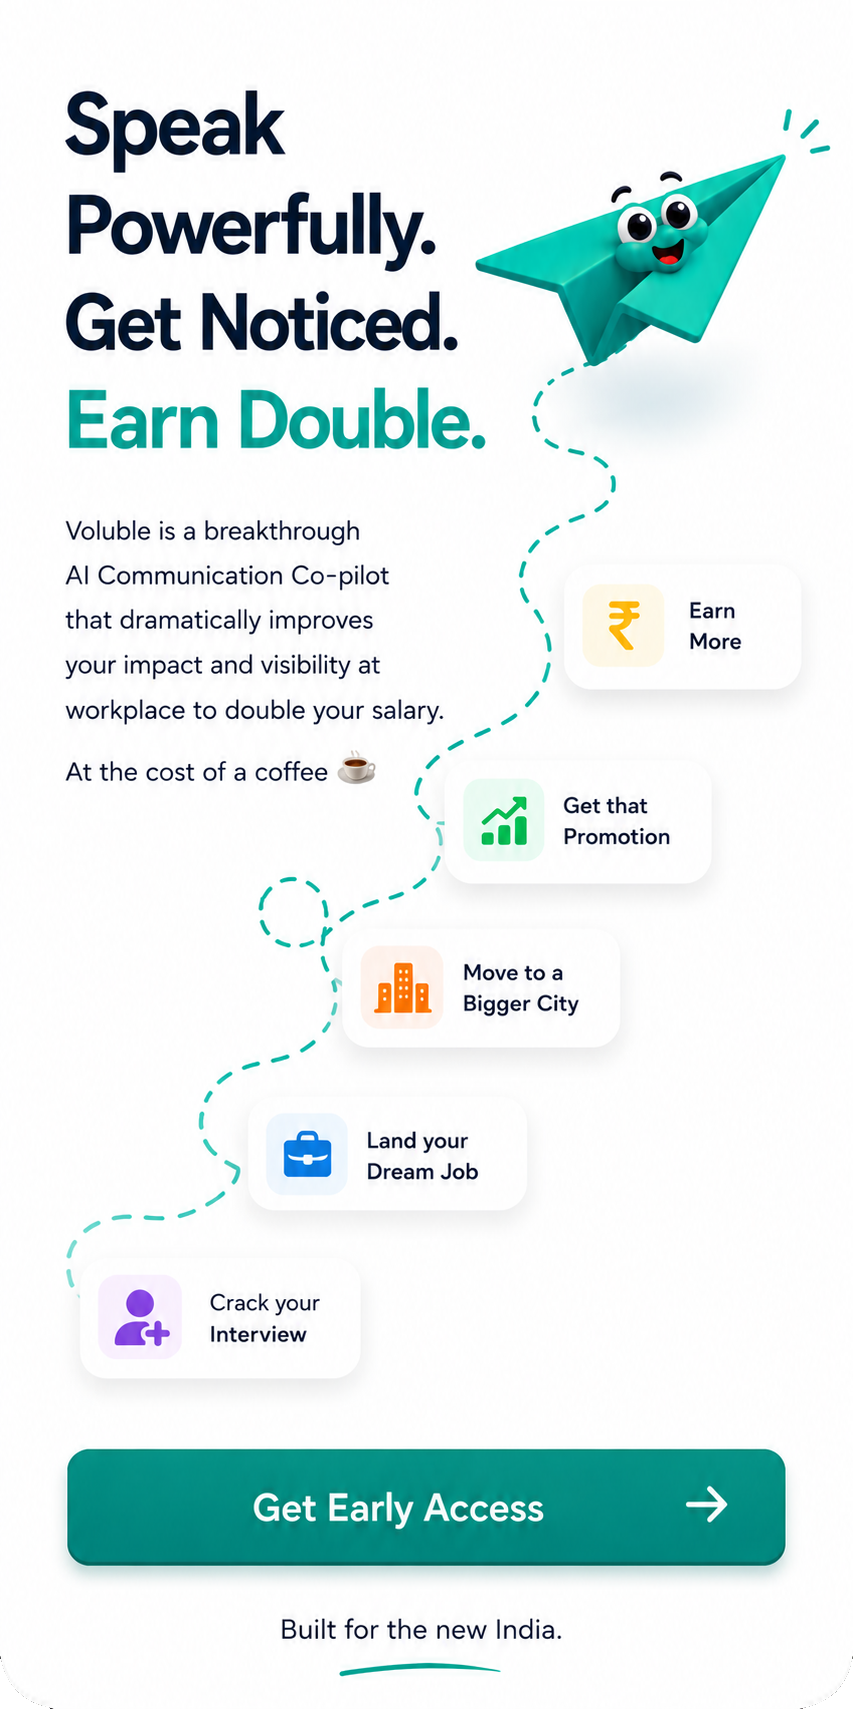
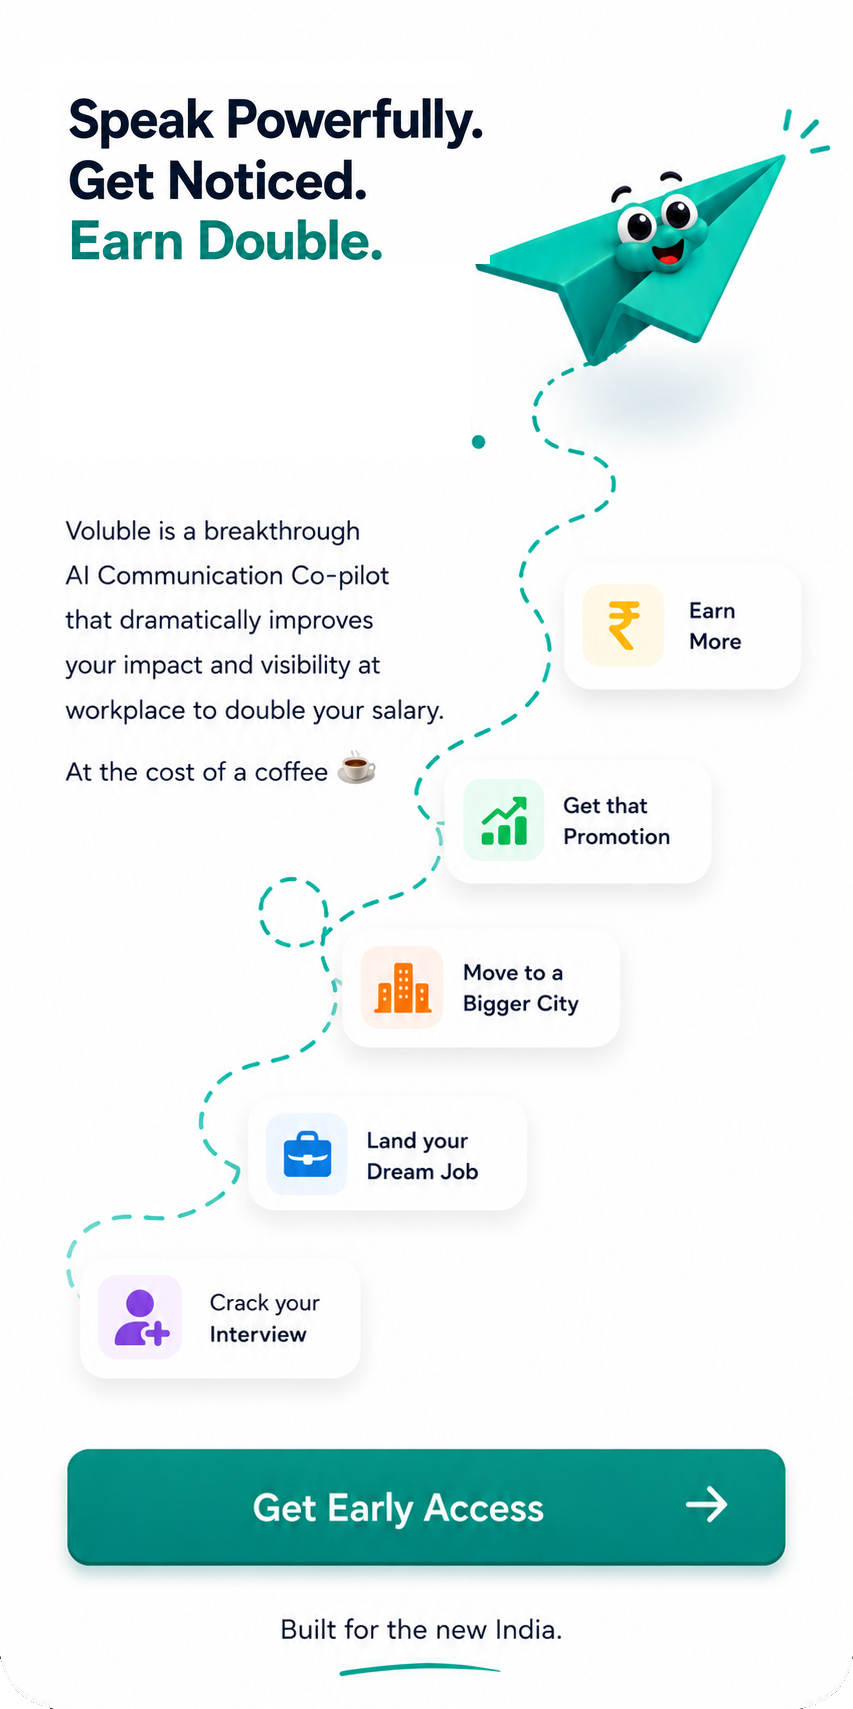
Ensure 'Speak Powerfully.' appears on a single line on desktop and mobile

Changed region(s): [[0.061, 0.031, 0.5791, 0.2791]]

diff --git a/index.html b/index.html
@@ -43,9 +43,9 @@
       <!-- Left Content -->
       <div class="hero-left">
         <h1 class="hero-title">
-          Speak Powerfully.<br>
-          Get Noticed.<br>
-          <span class="text-teal">Earn Double.</span>
+          <span class="nowrap">Speak Powerfully.</span><br>
+          <span class="nowrap">Get Noticed.</span><br>
+          <span class="text-teal nowrap">Earn Double.</span>
         </h1>
         <p class="hero-subtitle">
           Voluble is a breakthrough AI Communication Co-pilot that dramatically improves your impact and visibility at workplace to double your salary.

diff --git a/style.css b/style.css
@@ -212,6 +212,10 @@ body {
   color: #0d172a;
 }
 
+.nowrap {
+  white-space: nowrap;
+}
+
 .hero-subtitle {
   font-size: 1.18rem;
   color: #334155;
